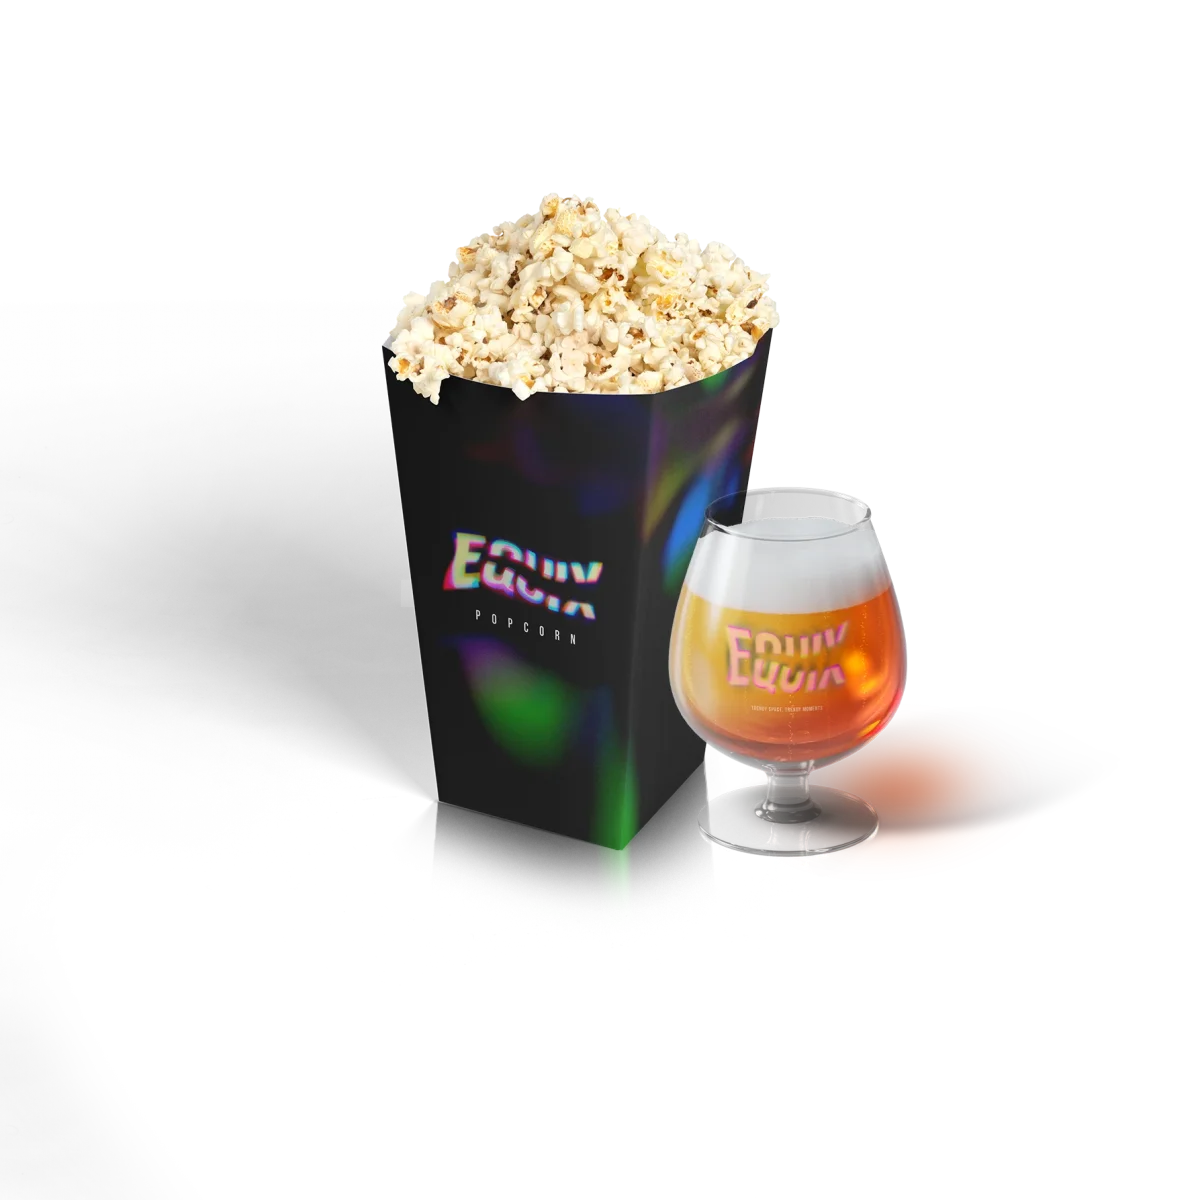
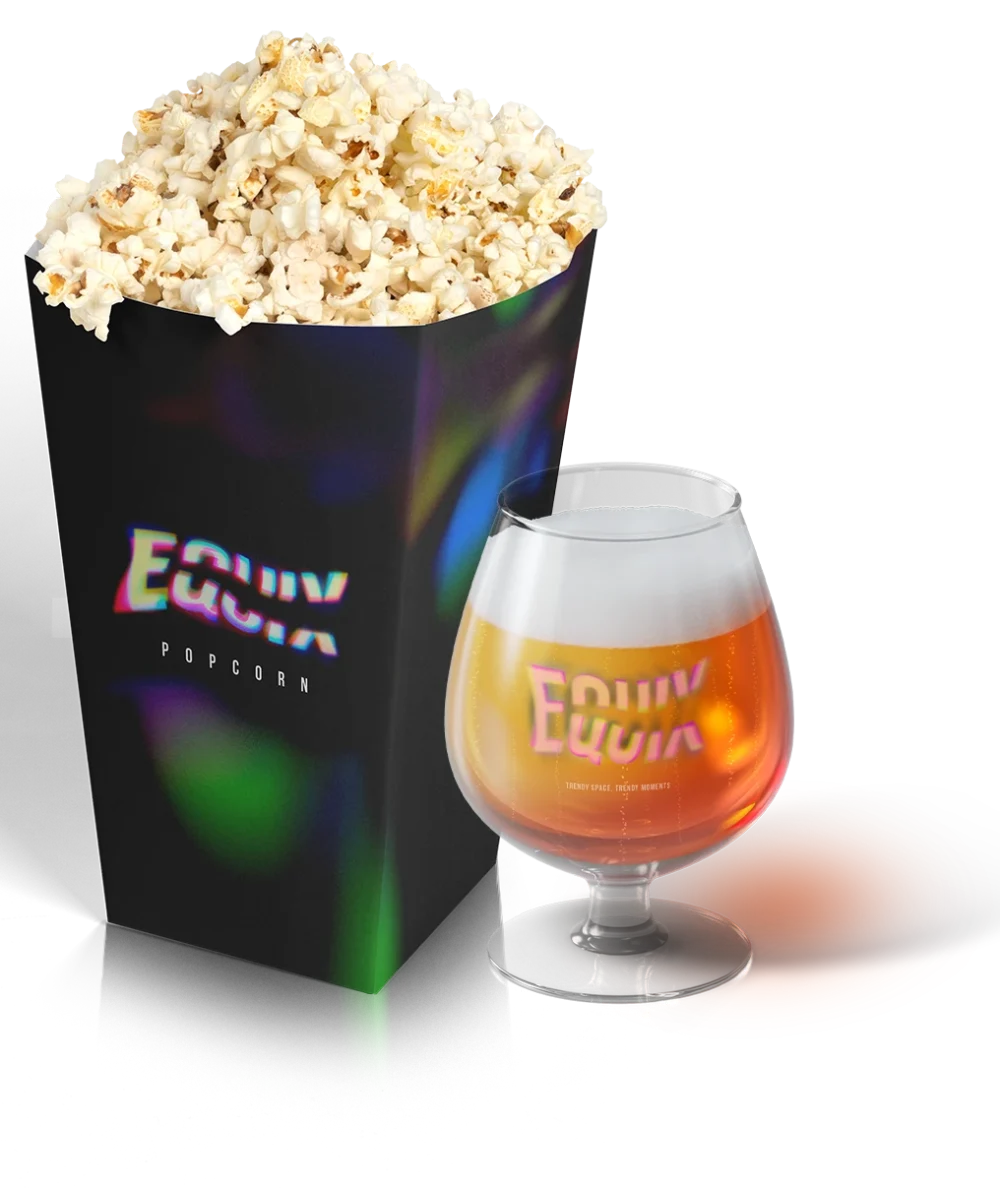
Sala Equis: los mockups, recortados a su pieza
La nueva imagen de staff, y los tres archivos recortados a su contenido:
traian un margen enorme de fondo transparente -en las palomitas la caja
ocupaba la mitad del ancho- y ese hueco arriba y abajo no era aire de
maquetacion, era parte de la imagen. Las columnas de la fila de abajo
pasan a ir en proporcion a cada pieza, para que salgan igual de altas.
Y el logotipo, mas pequeno dentro de su caja.

diff --git a/src/components/proyectos/sala-equis/SalaEquis.css b/src/components/proyectos/sala-equis/SalaEquis.css
@@ -65,7 +65,7 @@
    El aire por dentro es generoso a propósito: un logotipo pegado al borde de su
    caja se lee como un recorte, no como una marca. */
 .se-logos {
-  --se-aire: 13%;
+  --se-aire: 19%;
   margin: 28px 0 0;
 }
 
@@ -76,25 +76,33 @@
 }
 
 /* ── Los mockups ─────────────────────────────────────────────────────────────
-   Las palomitas arriba y en grande, y debajo las tarjetas y las acreditaciones
-   a la par. Esas dos son casi de la misma proporción —3:2 y 1,4:1—, así que a
-   mitad y mitad salen con el mismo alto y la fila no queda escalonada. */
+   LOS TRES ARCHIVOS VIENEN RECORTADOS A SU CONTENIDO, que es de donde sale el
+   tamaño. Los mockups traían un margen enorme de fondo transparente alrededor
+   —en las palomitas, la caja ocupaba la mitad del ancho del archivo—, así que
+   por mucho que se estirara la caja en la página, la pieza se seguía viendo
+   pequeña y con un hueco arriba y abajo que no era aire de maquetación, era
+   parte de la imagen. Recortado el margen, la misma caja enseña casi el doble
+   de pieza. */
 .se-mockups {
   display: grid;
   gap: 18px;
   margin: 28px 0 0;
 }
-/* CENTRADA Y CON TOPE, y no a todo el ancho de la columna. La pieza es cuadrada:
-   estirada a los mil píxeles del apartado serían mil de alto, o sea una pantalla
-   entera de scroll para un bote de palomitas. A este tamaño sigue siendo, con
-   diferencia, la más grande de las tres. */
+/* La de arriba, centrada y con tope. Ya recortada sigue siendo más alta que
+   ancha, así que a todo el ancho de la columna serían mil píxeles de alto, una
+   pantalla entera de scroll para un bote de palomitas. */
 .se-mockup-grande {
-  max-width: 680px;
+  max-width: 620px;
   margin-inline: auto;
 }
+/* LAS COLUMNAS VAN EN PROPORCIÓN A LAS PIEZAS, y no a mitades. Las tarjetas son
+   apaisadas —1,17 a 1— y las acreditaciones verticales —0,76 a 1—: repartido a
+   partes iguales, la vertical saldría un tercio más alta que la otra y la fila
+   se leería escalonada. Dándole a cada una el ancho que pide su proporción, las
+   dos acaban con el mismo alto. */
 .se-mockups-par {
   display: grid;
-  grid-template-columns: 1fr 1fr;
+  grid-template-columns: 1.17fr 0.76fr;
   gap: 18px;
   align-items: center;
 }
@@ -112,6 +120,6 @@
     grid-template-columns: 1fr;
   }
   .se-logos {
-    --se-aire: 9%;
+    --se-aire: 14%;
   }
 }
